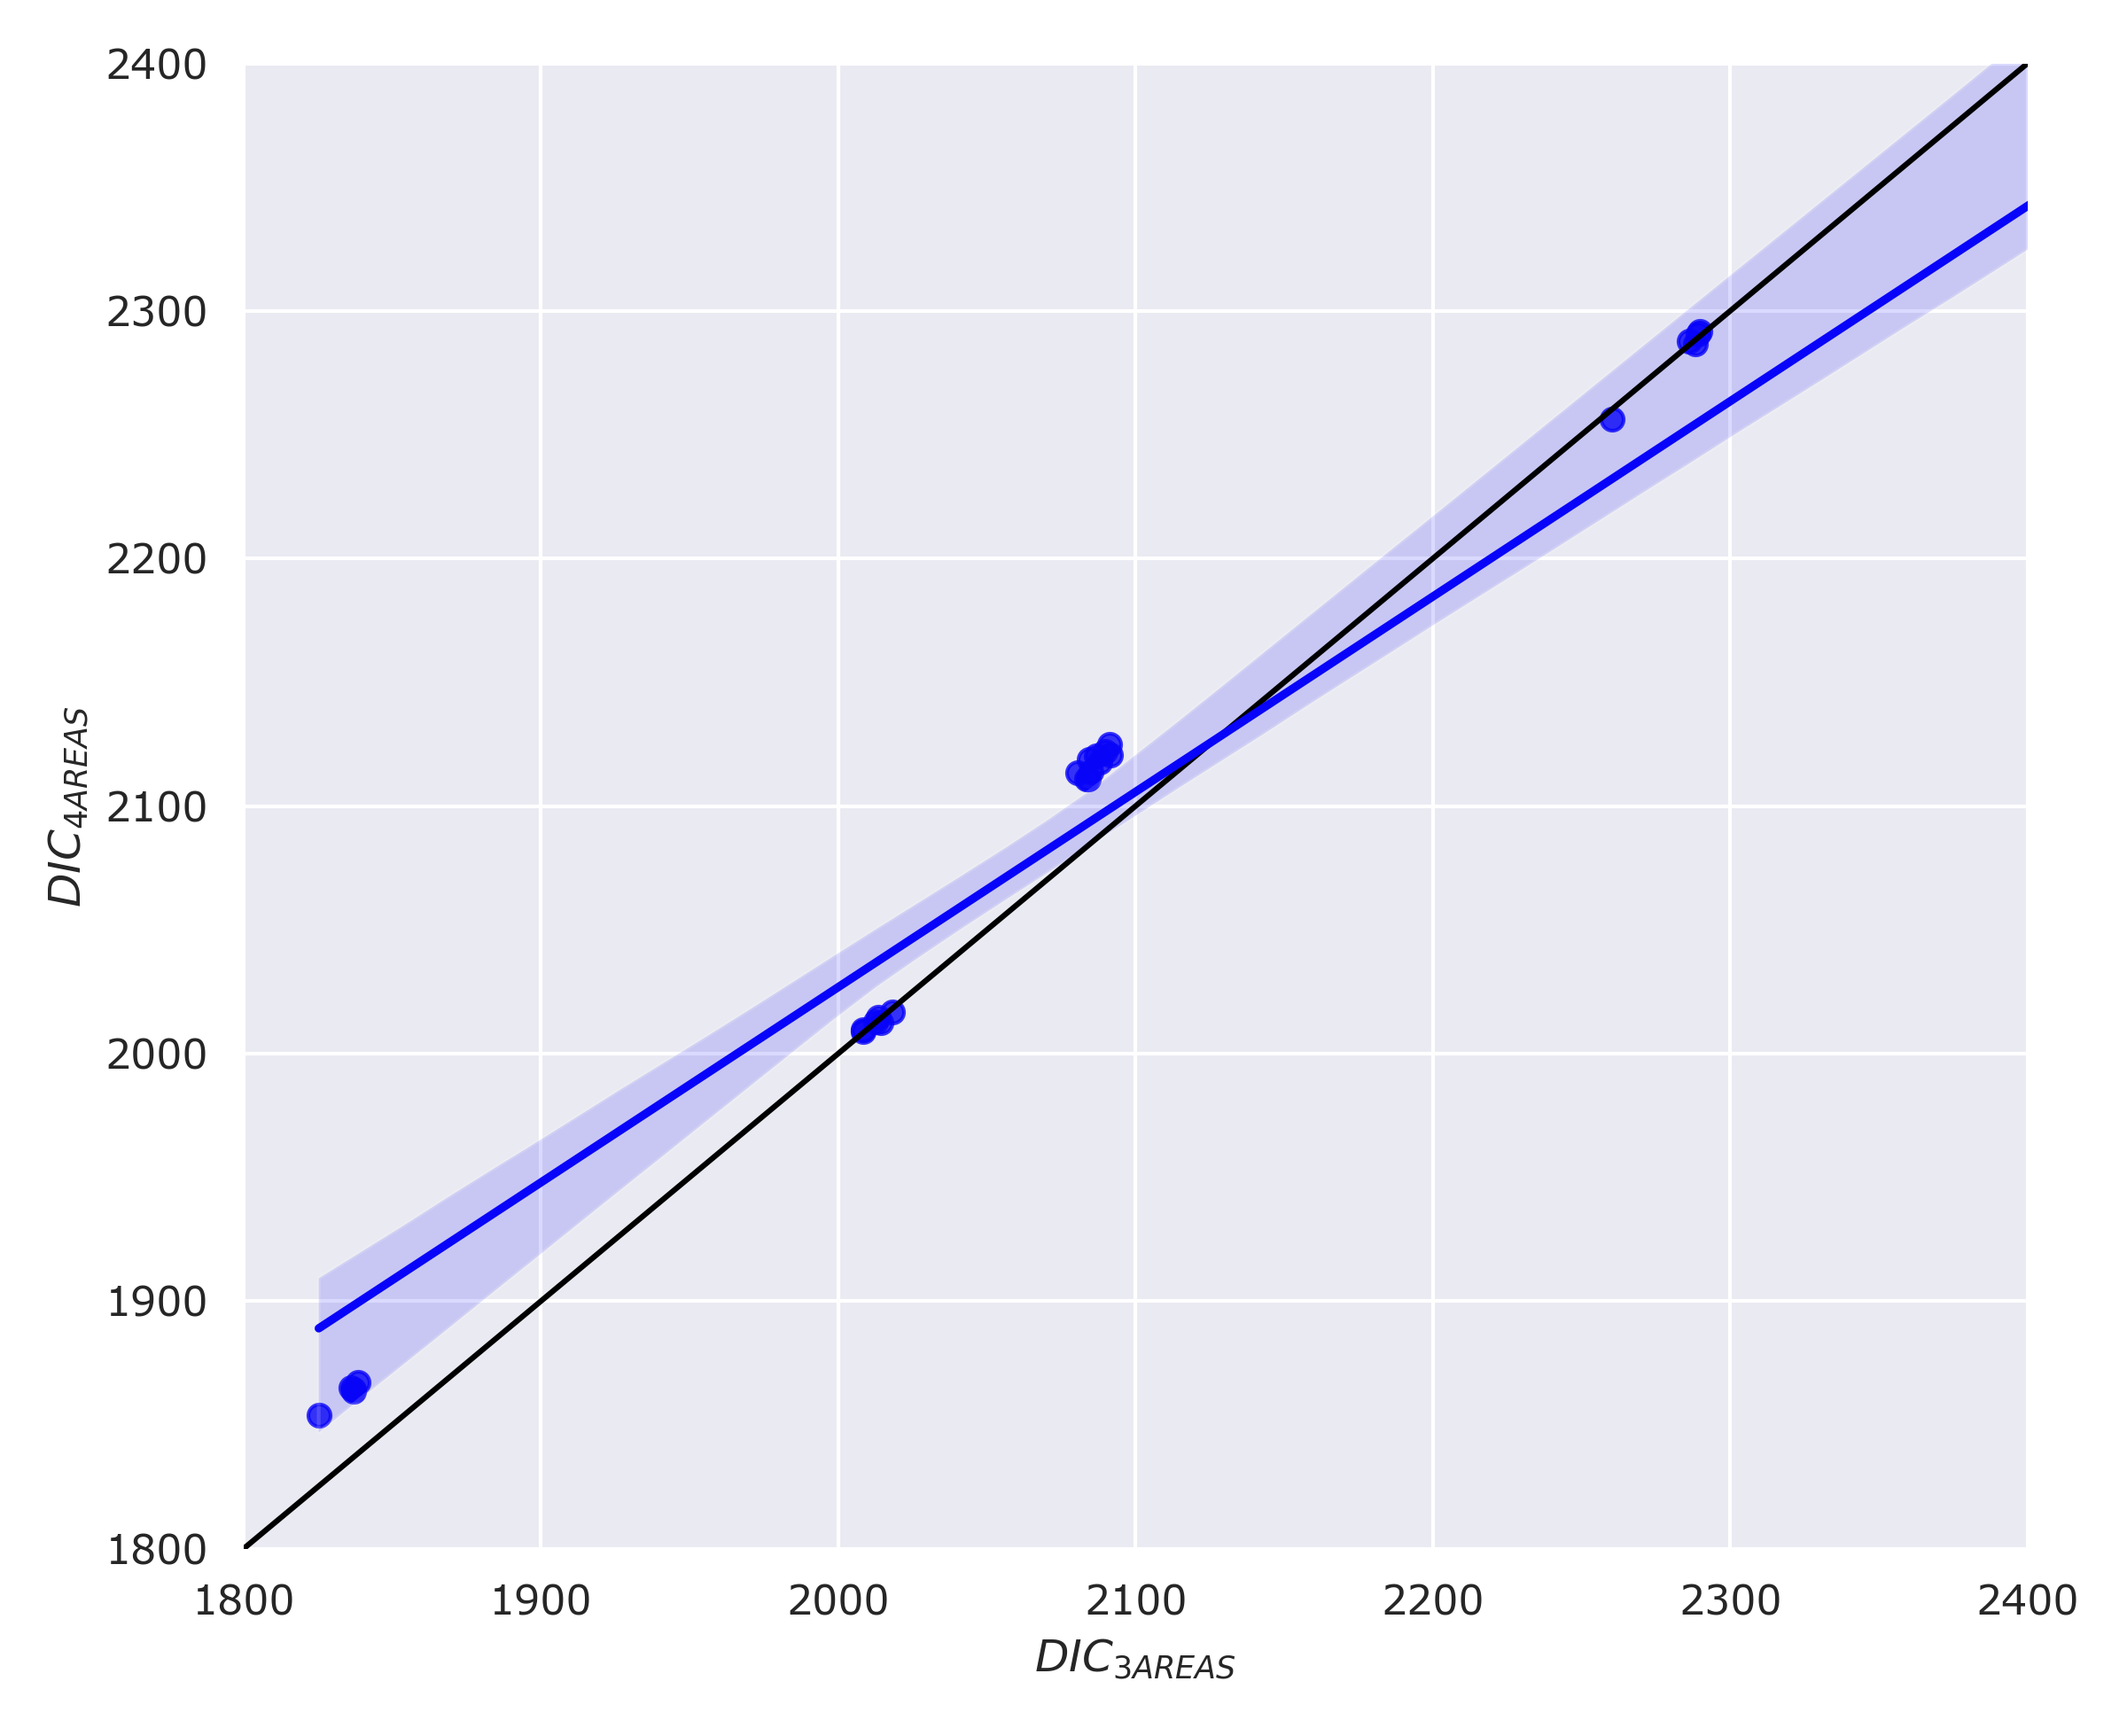
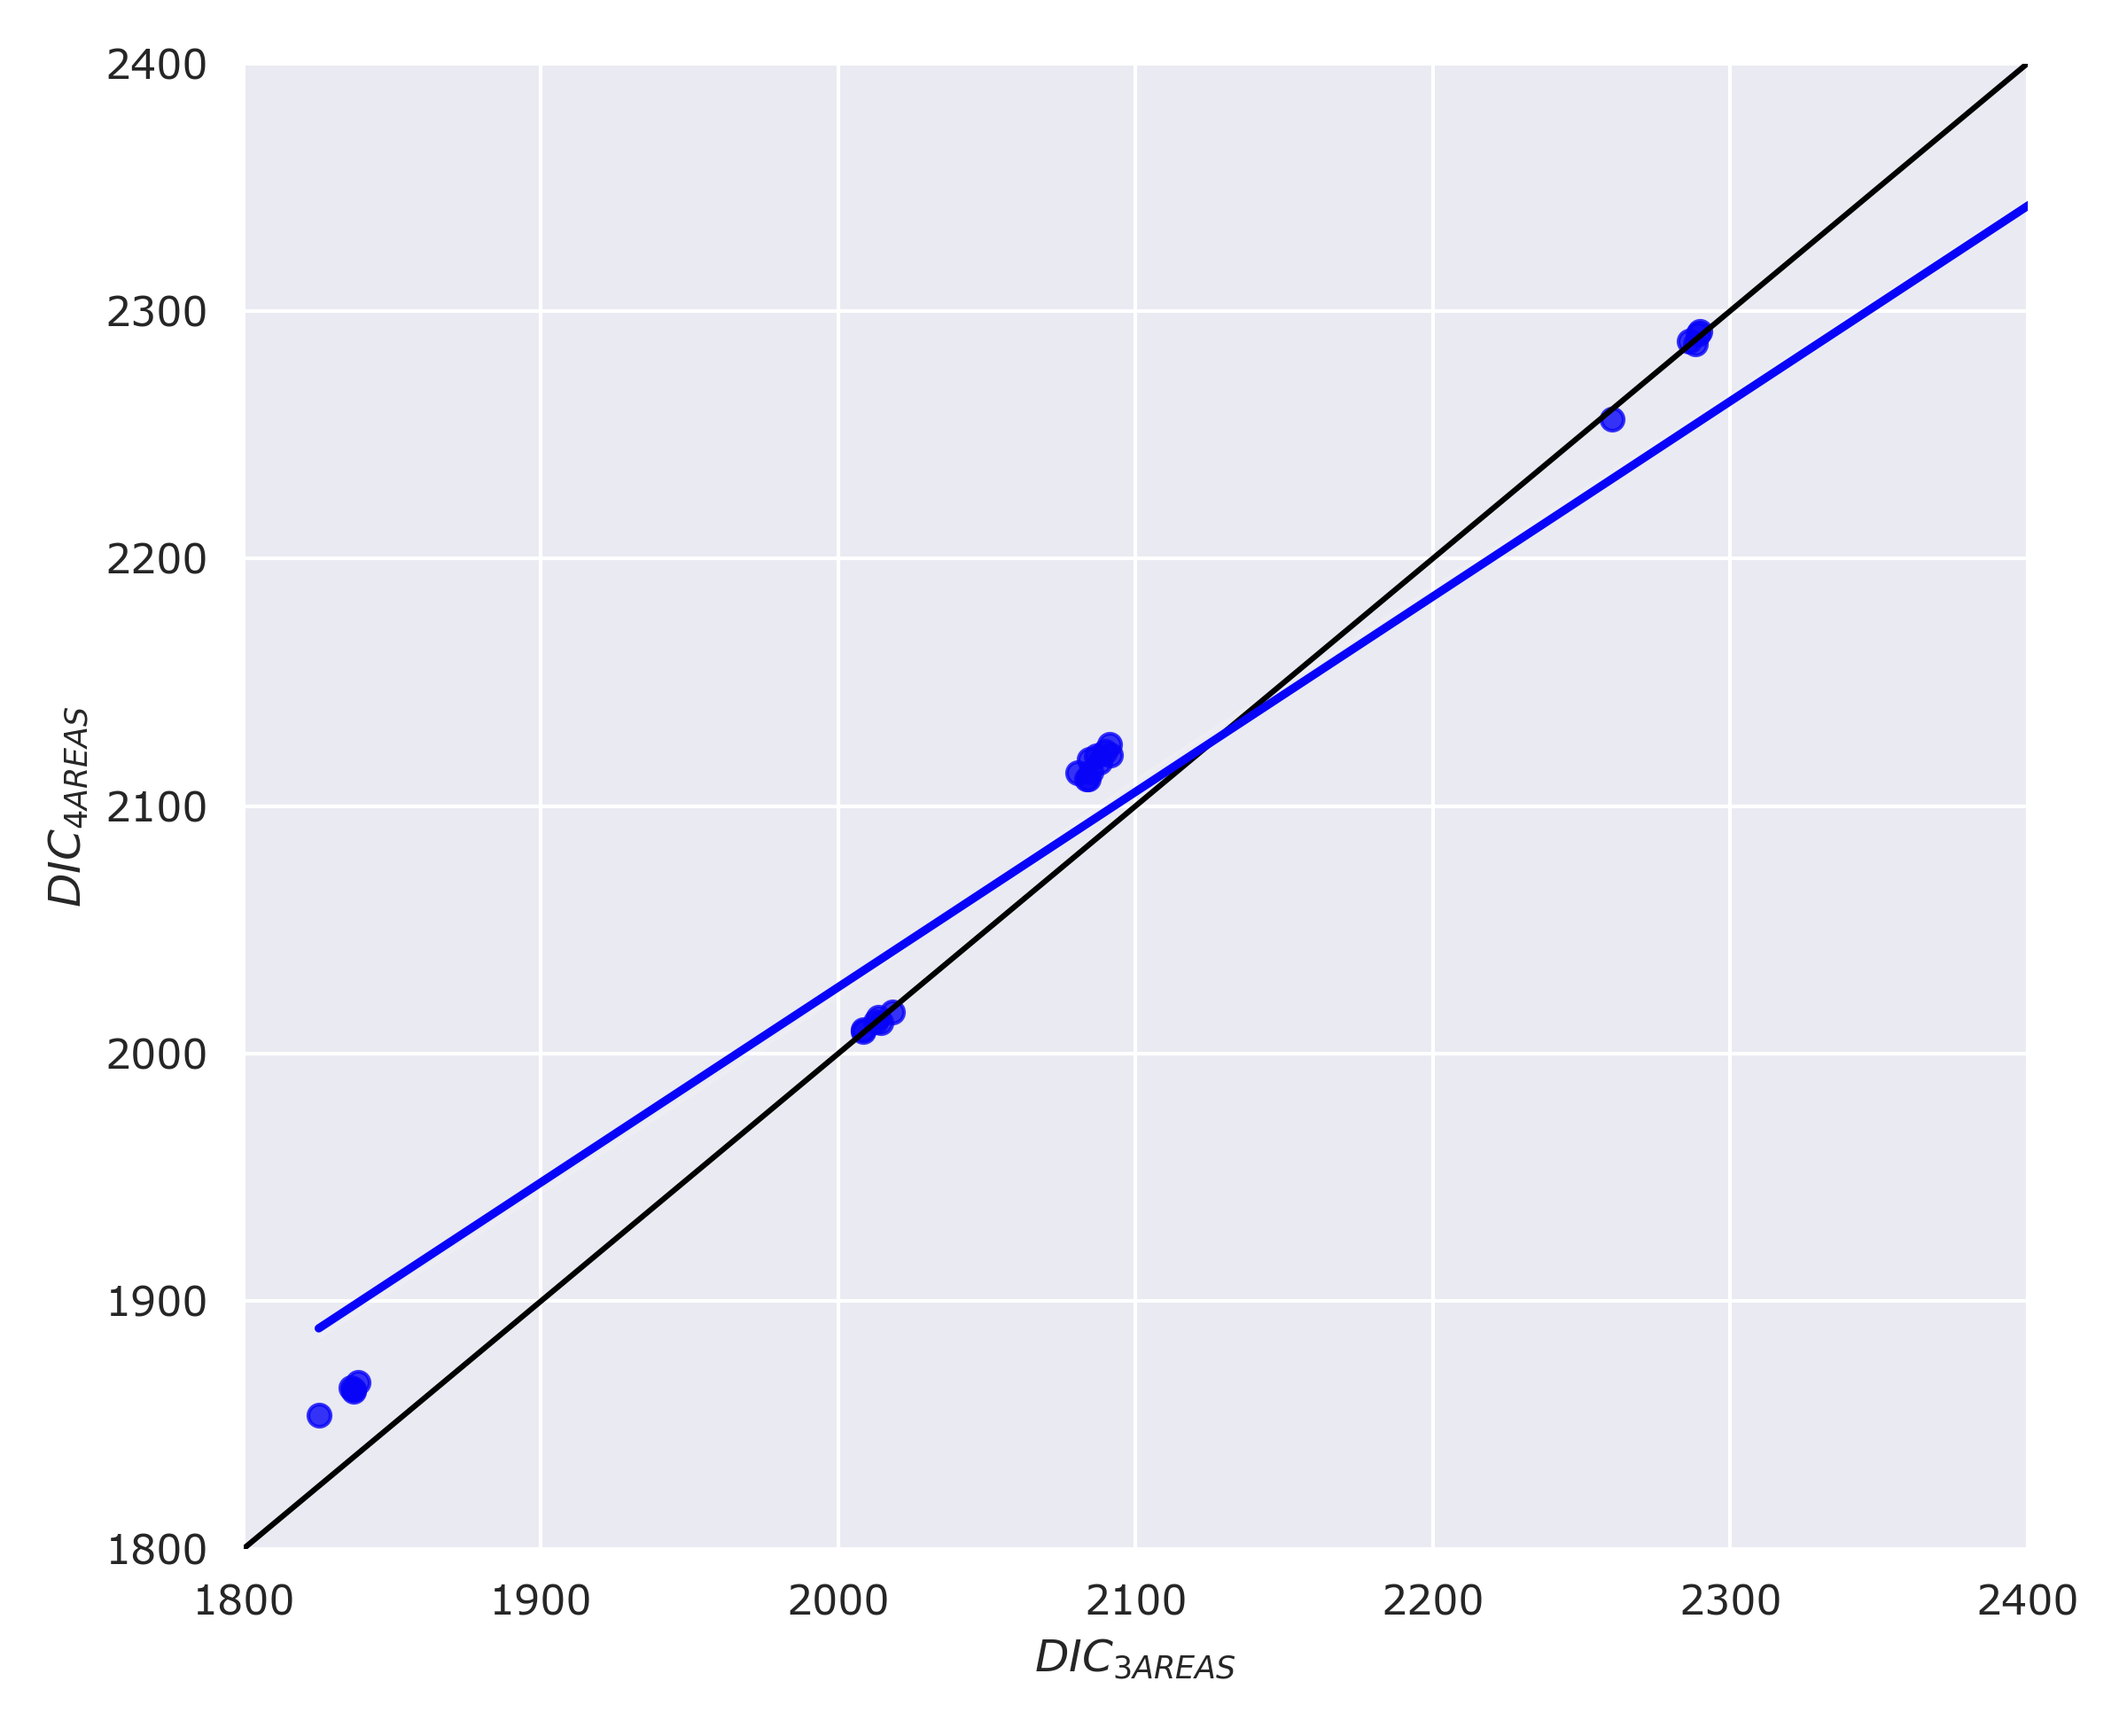
added R2 to ph optode scatter graph

Changed region(s): [[0.125, 0.0308, 0.9688, 0.8308]]

diff --git a/pH_optode/compare_optode_rws.py b/pH_optode/compare_optode_rws.py
@@ -4,6 +4,7 @@ import numpy as np
 import seaborn as sns
 import matplotlib.pyplot as plt
 import matplotlib
+from scipy import stats
 
 # run other scripts
 exec(open("fx_ph_optode.py").read())
@@ -80,6 +81,20 @@ plt.tight_layout()
 # save plot
 plt.savefig('./figures/scatter_all_methods.png', format = 'png')
 plt.show()
+
+# calc stats linregress
+# create mask
+mask1 = ~np.isnan(datac.pH_s0_mean) & ~np.isnan(datac.pH_spectro_total_20)
+mask2 = ~np.isnan(datac.pH_s0_mean) & ~np.isnan(datac.pH_calc12_total_20)
+mask3 = ~np.isnan(datac.pH_s0_mean) & ~np.isnan(datac.pH_vindta_total_20)
+
+# calc R2
+r2_0_spectro = stats.linregress(datac.pH_s0_mean[mask1],
+                                datac.pH_spectro_total_20[mask1])[2]  
+r2_0_calc = stats.linregress(datac.pH_s0_mean[mask2],
+                             datac.pH_calc12_total_20[mask2])[2] 
+r2_0_vindta = stats.linregress(datac.pH_s0_mean[mask3],
+                               datac.pH_vindta_total_20[mask3])[2] 
 
 #%% scatterplot all methods on same plot per station
 f, ax = plt.subplots(figsize=(20, 6.5), dpi=300)
